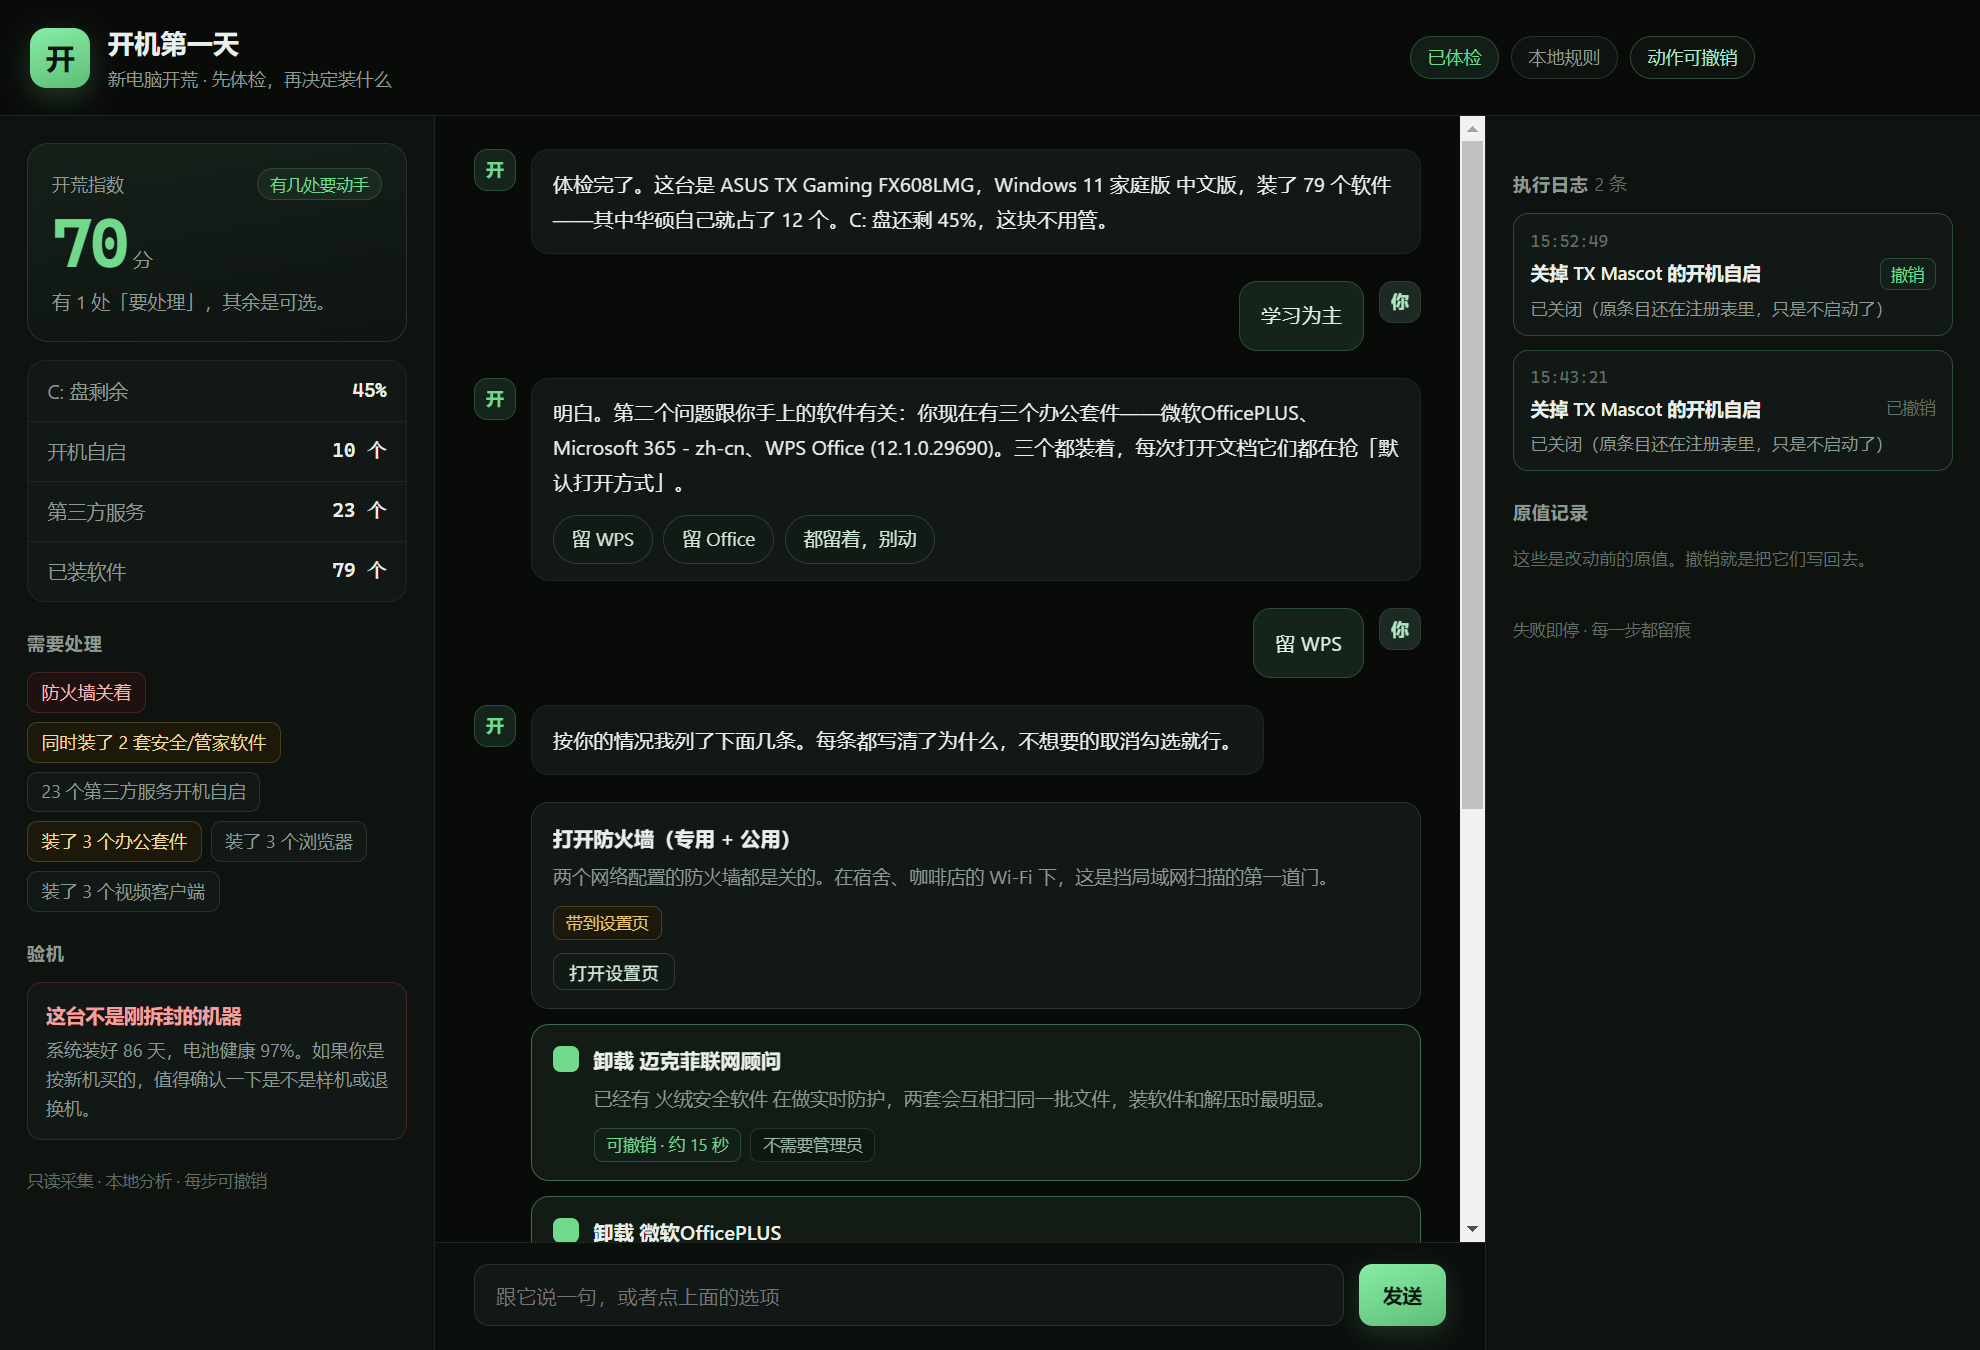
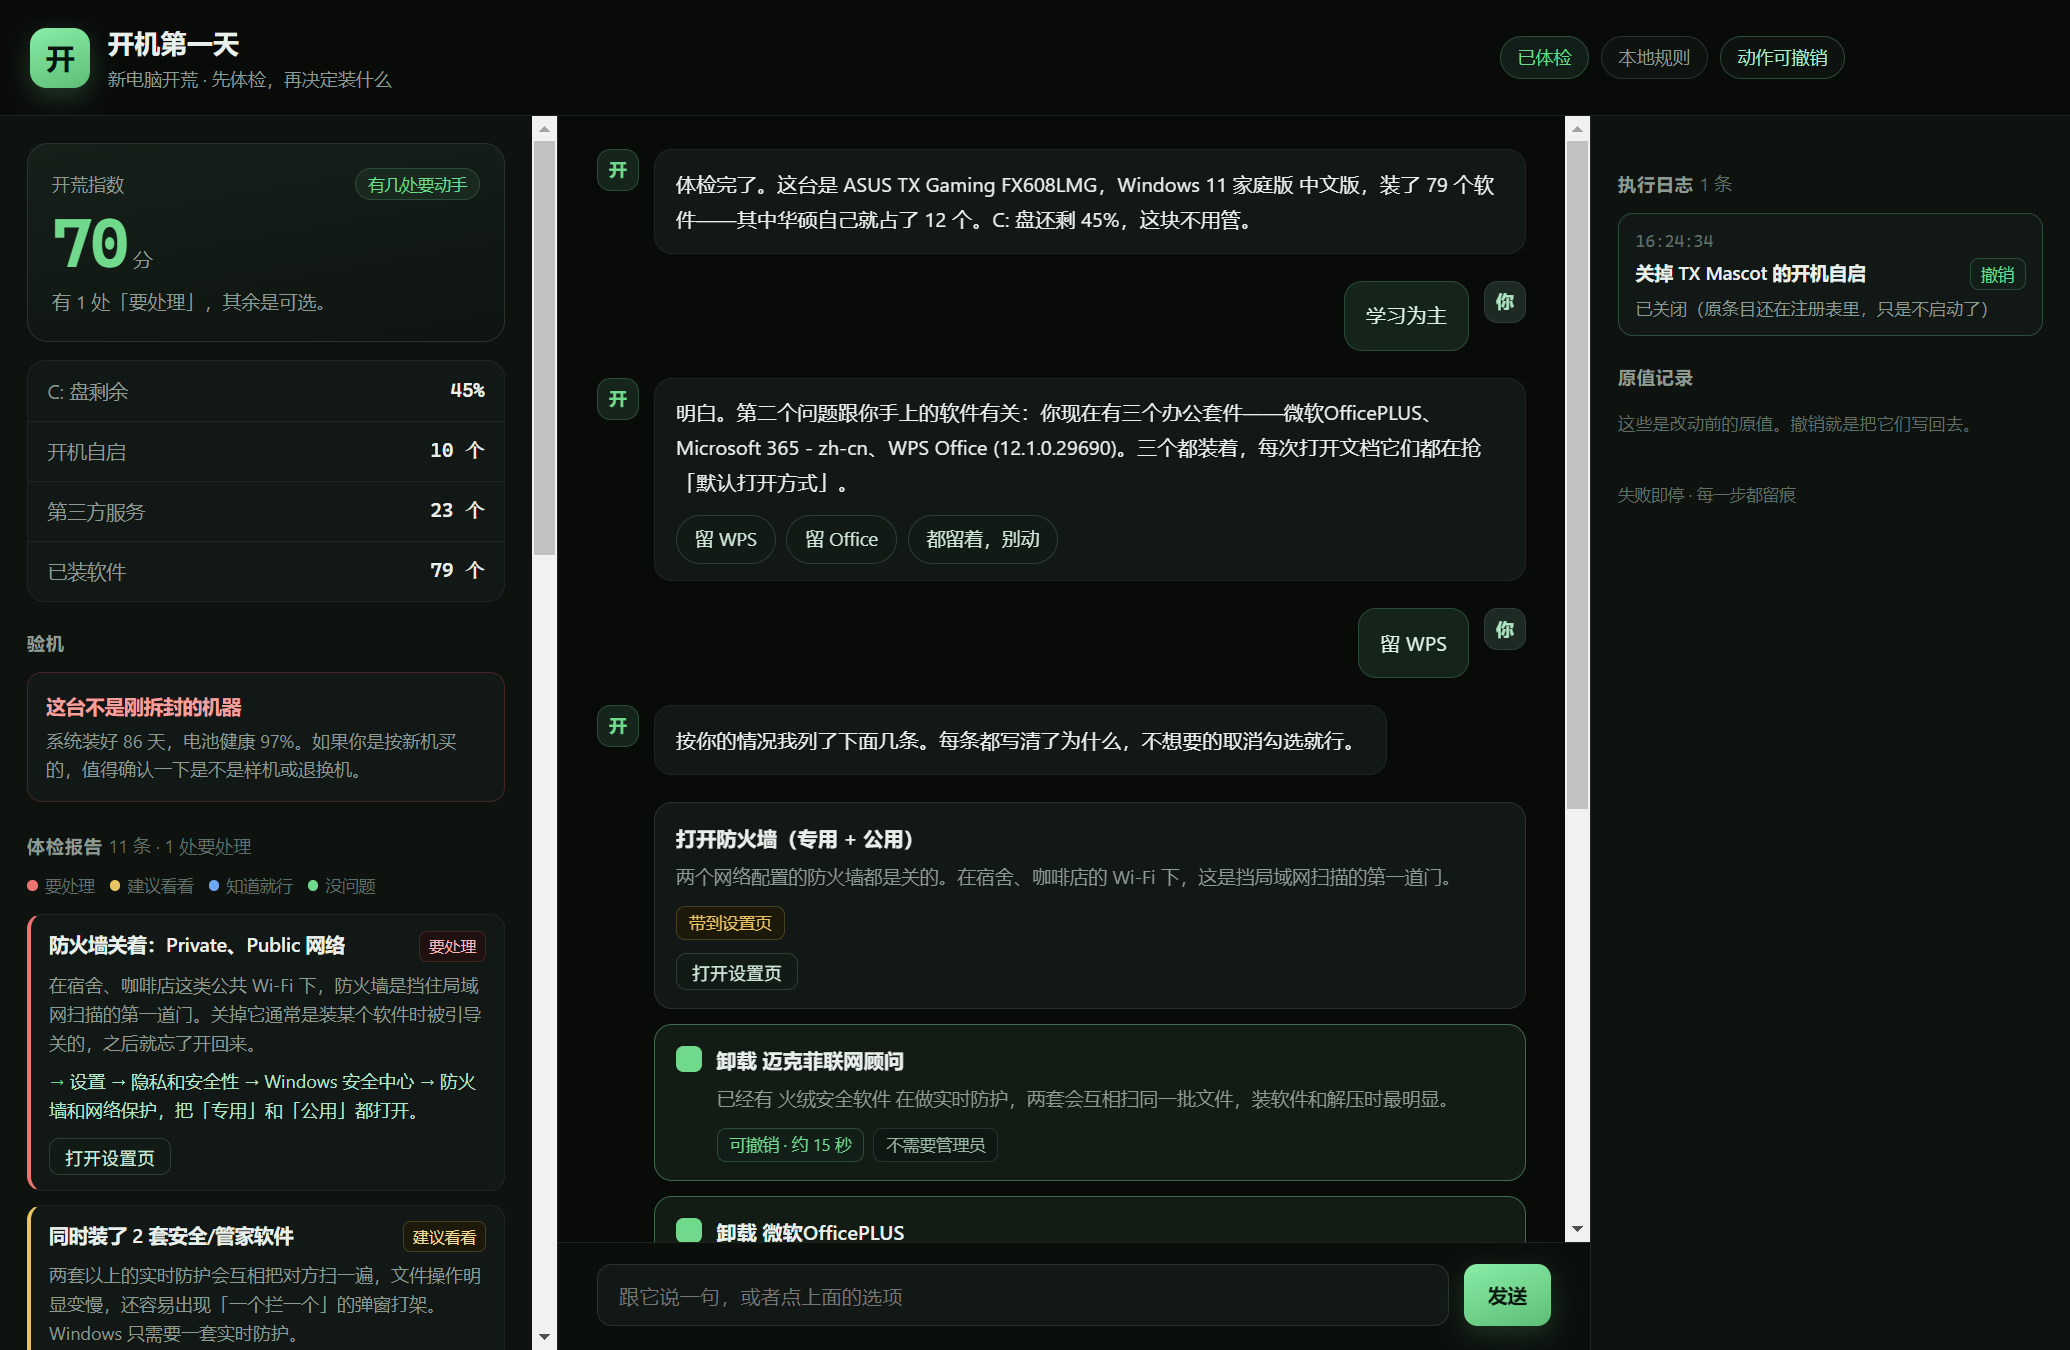
ui: left column shows the full per-item report, like the web version

diff --git a/docs/agent-demo.html b/docs/agent-demo.html
@@ -27,7 +27,7 @@ body{margin:0;background:var(--bg);color:var(--text);font:14px/1.65 "Segoe UI","
 .pill.on{color:var(--acc);border-color:#1f4d36;background:#0d1f17}
 .pill.acc{color:#9fe8c0;border-color:#1f4d36}
 
-.grid{flex:1;display:grid;grid-template-columns:290px minmax(420px,1fr) 330px;gap:0;min-height:0}
+.grid{flex:1;display:grid;grid-template-columns:372px minmax(400px,1fr) 320px;gap:0;min-height:0}
 .col{padding:18px;overflow:auto;min-height:0}
 .left,.right{background:var(--panel);}
 .left{border-right:1px solid var(--line)}
@@ -66,6 +66,32 @@ body{margin:0;background:var(--bg);color:var(--text);font:14px/1.65 "Segoe UI","
 .verify b{display:block;font-size:13px;margin-bottom:3px}
 .verify.ok b{color:var(--acc)} .verify.high b{color:#ff9d9d} .verify.warn b{color:var(--warn)}
 .verify p{margin:0;font-size:12px;color:var(--dim);line-height:1.6}
+
+/* 体检报告（左侧逐条列表） */
+.report-block{margin-top:20px}
+.legend{display:flex;flex-wrap:wrap;gap:10px;margin:-2px 0 10px;font-size:11px;color:var(--dim2)}
+.legend span{display:flex;align-items:center;gap:5px}
+.legend i{width:7px;height:7px;border-radius:50%;display:inline-block}
+.legend i.high{background:var(--high)} .legend i.warn{background:var(--warn)}
+.legend i.info{background:var(--blue)} .legend i.ok{background:var(--acc)}
+.report{display:flex;flex-direction:column;gap:9px}
+.fcard{border:1px solid var(--line);border-left:3px solid #2a3c33;border-radius:10px;background:var(--panel2);padding:10px 12px}
+.fcard.high{border-left-color:var(--high)} .fcard.warn{border-left-color:var(--warn)}
+.fcard.info{border-left-color:var(--blue)} .fcard.ok{border-left-color:#2f6b4a}
+.fhead{display:flex;align-items:baseline;gap:8px}
+.fhead h3{margin:0;flex:1;font-size:13px;font-weight:600;line-height:1.45}
+.flevel{font-size:10.5px;padding:1px 6px;border-radius:5px;border:1px solid #24322b;color:var(--dim);white-space:nowrap}
+.fcard.high .flevel{color:#ffb4b4;border-color:#4a2222;background:#20100f}
+.fcard.warn .flevel{color:#f7d894;border-color:#4a3d1c;background:#1d1808}
+.fcard.info .flevel{color:#a8d0f7;border-color:#24384a;background:#0d1620}
+.fcard.ok .flevel{color:#9fe8c0;border-color:#1f4d36;background:#0d1f17}
+.fdetail{margin:6px 0 0;font-size:12px;color:var(--dim);line-height:1.62}
+.ffix{margin:6px 0 0;font-size:12px;color:#a9e6c4;line-height:1.6}
+.ffix b{color:var(--acc);font-weight:600}
+.fitems{display:flex;flex-wrap:wrap;gap:5px;margin-top:8px}
+.fitem{font-size:10.5px;color:#8fb8a1;background:#0b1210;border:1px solid var(--line);border-radius:5px;padding:2px 6px;max-width:100%;overflow:hidden;text-overflow:ellipsis;white-space:nowrap}
+.fcard .linkbtn{margin-top:9px}
+.fcard .status{margin-top:6px}
 
 .foot{margin:18px 0 0;font-size:11px;color:var(--dim2)}
 
@@ -186,13 +212,16 @@ body.desktop .top .pill,body.desktop .top button{-webkit-app-region:no-drag}
     <section class="metrics" id="metrics"></section>
 
     <section class="block">
-      <h2>需要处理</h2>
-      <div class="chips" id="chips"><span class="muted">—</span></div>
-    </section>
-
-    <section class="block">
       <h2>验机</h2>
       <div class="verify" id="verify"><p class="muted">还没验。</p></div>
+    </section>
+
+    <section class="block report-block">
+      <h2>体检报告 <span class="hint" id="reportCount"></span></h2>
+      <div class="legend">
+        <span><i class="d high"></i>要处理</span><span><i class="d warn"></i>建议看看</span><span><i class="d info"></i>知道就行</span><span><i class="d ok"></i>没问题</span>
+      </div>
+      <div class="report" id="report"><p class="muted">先跑一遍体检，报告就出现在这里。</p></div>
     </section>
 
     <p class="foot">只读采集 · 本地分析 · 每步可撤销</p>
@@ -231,6 +260,9 @@ const sleep = (ms) => new Promise((r) => setTimeout(r, ms));
 let seq = 0;
 
 function detailOf(action) {
+  if (action === 'open_settings') {
+    return { ok: true, detail: '真机上会真的弹出系统设置页；这里是静态演示，只记一笔', ms: 300, revert: null };
+  }
   if (action === 'disable_startup') {
     return { ok: true, detail: '已关闭（原条目还在注册表里，只是不启动了）', ms: 820, revert: { kind: 'reg', name: 'TX Mascot', value: 'C:\\Program Files\\ASUS\\TXMascot.exe' } };
   }
@@ -347,16 +379,6 @@ function renderLeft() {
     m.append(r);
   }
 
-  const chips = $('#chips');
-  chips.innerHTML = '';
-  const key = a.findings.filter(f => ['high', 'warn', 'info'].includes(f.level)).slice(0, 6);
-  if (!key.length) chips.append(el('span', 'muted', '没什么要处理的。'));
-  for (const f of key) {
-    const c = el('span', 'chip ' + (f.level === 'high' ? 'high' : f.level === 'warn' ? 'warn' : ''));
-    c.textContent = f.title.replace(/：.*$/, '').slice(0, 18);
-    chips.append(c);
-  }
-
   const v = a.verify;
   const box = $('#verify');
   box.className = 'verify ' + (v.tone || '');
@@ -365,6 +387,60 @@ function renderLeft() {
 
   $('#pillScan').textContent = '已体检';
   $('#pillScan').classList.add('on');
+
+  renderReport();
+}
+
+const LEVEL_TXT = { high: '要处理', warn: '建议看看', info: '知道就行', ok: '没问题' };
+const LEVEL_ORDER = { high: 0, warn: 1, info: 2, ok: 3 };
+
+// 左侧体检报告：跟网页版一样的逐条卡片——为什么、怎么办、涉及哪些东西
+function renderReport() {
+  const a = S.analysis;
+  const box = $('#report');
+  if (!a || !box) return;
+  box.innerHTML = '';
+  $('#reportCount').textContent = a.counts.high
+    ? a.findings.length + ' 条 · ' + a.counts.high + ' 处要处理'
+    : a.findings.length + ' 条 · 没有硬伤';
+
+  const list = a.findings.slice().sort((x, y) => (LEVEL_ORDER[x.level] ?? 9) - (LEVEL_ORDER[y.level] ?? 9));
+  if (!list.length) { box.append(el('p', 'muted', '没有发现需要处理的问题。')); return; }
+
+  for (const f of list) {
+    const c = el('article', 'fcard ' + (f.level || 'info'));
+    const head = el('div', 'fhead');
+    head.append(el('h3', null, f.title), el('span', 'flevel', LEVEL_TXT[f.level] || '记录'));
+    c.append(head);
+    if (f.detail) c.append(el('p', 'fdetail', f.detail));
+    if (f.fix) {
+      const p = el('p', 'ffix');
+      p.append(el('b', null, '→ '), document.createTextNode(f.fix));
+      c.append(p);
+    }
+    if (f.items && f.items.length) {
+      const wrap = el('div', 'fitems');
+      for (const t of f.items.slice(0, 8)) wrap.append(el('span', 'fitem', t));
+      if (f.items.length > 8) wrap.append(el('span', 'fitem', '+' + (f.items.length - 8) + ' 个'));
+      c.append(wrap);
+    }
+    if (f.action === 'open_settings') {
+      const label = f.cta || '打开设置页';
+      const btn = el('button', 'linkbtn', label);
+      btn.onclick = async () => {
+        btn.disabled = true; btn.textContent = '正在打开…';
+        try {
+          await api('/api/execute', { card: { action: 'open_settings', title: f.title, target: f.args || {} } });
+          btn.textContent = '✓ 已打开';
+          S.journal = (await api('/api/journal')).entries;
+          renderLog();
+        } catch (e) { btn.textContent = '打开失败'; }
+        setTimeout(() => { btn.disabled = false; btn.textContent = label; }, 3500);
+      };
+      c.append(btn);
+    }
+    box.append(c);
+  }
 }
 
 function renderLog() {

diff --git a/app/ui/app.js b/app/ui/app.js
@@ -35,16 +35,6 @@ function renderLeft() {
     m.append(r);
   }
 
-  const chips = $('#chips');
-  chips.innerHTML = '';
-  const key = a.findings.filter(f => ['high', 'warn', 'info'].includes(f.level)).slice(0, 6);
-  if (!key.length) chips.append(el('span', 'muted', '没什么要处理的。'));
-  for (const f of key) {
-    const c = el('span', 'chip ' + (f.level === 'high' ? 'high' : f.level === 'warn' ? 'warn' : ''));
-    c.textContent = f.title.replace(/：.*$/, '').slice(0, 18);
-    chips.append(c);
-  }
-
   const v = a.verify;
   const box = $('#verify');
   box.className = 'verify ' + (v.tone || '');
@@ -53,6 +43,60 @@ function renderLeft() {
 
   $('#pillScan').textContent = '已体检';
   $('#pillScan').classList.add('on');
+
+  renderReport();
+}
+
+const LEVEL_TXT = { high: '要处理', warn: '建议看看', info: '知道就行', ok: '没问题' };
+const LEVEL_ORDER = { high: 0, warn: 1, info: 2, ok: 3 };
+
+// 左侧体检报告：跟网页版一样的逐条卡片——为什么、怎么办、涉及哪些东西
+function renderReport() {
+  const a = S.analysis;
+  const box = $('#report');
+  if (!a || !box) return;
+  box.innerHTML = '';
+  $('#reportCount').textContent = a.counts.high
+    ? a.findings.length + ' 条 · ' + a.counts.high + ' 处要处理'
+    : a.findings.length + ' 条 · 没有硬伤';
+
+  const list = a.findings.slice().sort((x, y) => (LEVEL_ORDER[x.level] ?? 9) - (LEVEL_ORDER[y.level] ?? 9));
+  if (!list.length) { box.append(el('p', 'muted', '没有发现需要处理的问题。')); return; }
+
+  for (const f of list) {
+    const c = el('article', 'fcard ' + (f.level || 'info'));
+    const head = el('div', 'fhead');
+    head.append(el('h3', null, f.title), el('span', 'flevel', LEVEL_TXT[f.level] || '记录'));
+    c.append(head);
+    if (f.detail) c.append(el('p', 'fdetail', f.detail));
+    if (f.fix) {
+      const p = el('p', 'ffix');
+      p.append(el('b', null, '→ '), document.createTextNode(f.fix));
+      c.append(p);
+    }
+    if (f.items && f.items.length) {
+      const wrap = el('div', 'fitems');
+      for (const t of f.items.slice(0, 8)) wrap.append(el('span', 'fitem', t));
+      if (f.items.length > 8) wrap.append(el('span', 'fitem', '+' + (f.items.length - 8) + ' 个'));
+      c.append(wrap);
+    }
+    if (f.action === 'open_settings') {
+      const label = f.cta || '打开设置页';
+      const btn = el('button', 'linkbtn', label);
+      btn.onclick = async () => {
+        btn.disabled = true; btn.textContent = '正在打开…';
+        try {
+          await api('/api/execute', { card: { action: 'open_settings', title: f.title, target: f.args || {} } });
+          btn.textContent = '✓ 已打开';
+          S.journal = (await api('/api/journal')).entries;
+          renderLog();
+        } catch (e) { btn.textContent = '打开失败'; }
+        setTimeout(() => { btn.disabled = false; btn.textContent = label; }, 3500);
+      };
+      c.append(btn);
+    }
+    box.append(c);
+  }
 }
 
 function renderLog() {

diff --git a/app/ui/app.css b/app/ui/app.css
@@ -20,7 +20,7 @@ body{margin:0;background:var(--bg);color:var(--text);font:14px/1.65 "Segoe UI","
 .pill.on{color:var(--acc);border-color:#1f4d36;background:#0d1f17}
 .pill.acc{color:#9fe8c0;border-color:#1f4d36}
 
-.grid{flex:1;display:grid;grid-template-columns:290px minmax(420px,1fr) 330px;gap:0;min-height:0}
+.grid{flex:1;display:grid;grid-template-columns:372px minmax(400px,1fr) 320px;gap:0;min-height:0}
 .col{padding:18px;overflow:auto;min-height:0}
 .left,.right{background:var(--panel);}
 .left{border-right:1px solid var(--line)}
@@ -59,6 +59,32 @@ body{margin:0;background:var(--bg);color:var(--text);font:14px/1.65 "Segoe UI","
 .verify b{display:block;font-size:13px;margin-bottom:3px}
 .verify.ok b{color:var(--acc)} .verify.high b{color:#ff9d9d} .verify.warn b{color:var(--warn)}
 .verify p{margin:0;font-size:12px;color:var(--dim);line-height:1.6}
+
+/* 体检报告（左侧逐条列表） */
+.report-block{margin-top:20px}
+.legend{display:flex;flex-wrap:wrap;gap:10px;margin:-2px 0 10px;font-size:11px;color:var(--dim2)}
+.legend span{display:flex;align-items:center;gap:5px}
+.legend i{width:7px;height:7px;border-radius:50%;display:inline-block}
+.legend i.high{background:var(--high)} .legend i.warn{background:var(--warn)}
+.legend i.info{background:var(--blue)} .legend i.ok{background:var(--acc)}
+.report{display:flex;flex-direction:column;gap:9px}
+.fcard{border:1px solid var(--line);border-left:3px solid #2a3c33;border-radius:10px;background:var(--panel2);padding:10px 12px}
+.fcard.high{border-left-color:var(--high)} .fcard.warn{border-left-color:var(--warn)}
+.fcard.info{border-left-color:var(--blue)} .fcard.ok{border-left-color:#2f6b4a}
+.fhead{display:flex;align-items:baseline;gap:8px}
+.fhead h3{margin:0;flex:1;font-size:13px;font-weight:600;line-height:1.45}
+.flevel{font-size:10.5px;padding:1px 6px;border-radius:5px;border:1px solid #24322b;color:var(--dim);white-space:nowrap}
+.fcard.high .flevel{color:#ffb4b4;border-color:#4a2222;background:#20100f}
+.fcard.warn .flevel{color:#f7d894;border-color:#4a3d1c;background:#1d1808}
+.fcard.info .flevel{color:#a8d0f7;border-color:#24384a;background:#0d1620}
+.fcard.ok .flevel{color:#9fe8c0;border-color:#1f4d36;background:#0d1f17}
+.fdetail{margin:6px 0 0;font-size:12px;color:var(--dim);line-height:1.62}
+.ffix{margin:6px 0 0;font-size:12px;color:#a9e6c4;line-height:1.6}
+.ffix b{color:var(--acc);font-weight:600}
+.fitems{display:flex;flex-wrap:wrap;gap:5px;margin-top:8px}
+.fitem{font-size:10.5px;color:#8fb8a1;background:#0b1210;border:1px solid var(--line);border-radius:5px;padding:2px 6px;max-width:100%;overflow:hidden;text-overflow:ellipsis;white-space:nowrap}
+.fcard .linkbtn{margin-top:9px}
+.fcard .status{margin-top:6px}
 
 .foot{margin:18px 0 0;font-size:11px;color:var(--dim2)}
 

diff --git a/app/ui/index.html b/app/ui/index.html
@@ -34,13 +34,16 @@
     <section class="metrics" id="metrics"></section>
 
     <section class="block">
-      <h2>需要处理</h2>
-      <div class="chips" id="chips"><span class="muted">—</span></div>
-    </section>
-
-    <section class="block">
       <h2>验机</h2>
       <div class="verify" id="verify"><p class="muted">还没验。</p></div>
+    </section>
+
+    <section class="block report-block">
+      <h2>体检报告 <span class="hint" id="reportCount"></span></h2>
+      <div class="legend">
+        <span><i class="d high"></i>要处理</span><span><i class="d warn"></i>建议看看</span><span><i class="d info"></i>知道就行</span><span><i class="d ok"></i>没问题</span>
+      </div>
+      <div class="report" id="report"><p class="muted">先跑一遍体检，报告就出现在这里。</p></div>
     </section>
 
     <p class="foot">只读采集 · 本地分析 · 每步可撤销</p>

diff --git a/app/ui/demo-shim.js b/app/ui/demo-shim.js
@@ -6,6 +6,9 @@ const sleep = (ms) => new Promise((r) => setTimeout(r, ms));
 let seq = 0;
 
 function detailOf(action) {
+  if (action === 'open_settings') {
+    return { ok: true, detail: '真机上会真的弹出系统设置页；这里是静态演示，只记一笔', ms: 300, revert: null };
+  }
   if (action === 'disable_startup') {
     return { ok: true, detail: '已关闭（原条目还在注册表里，只是不启动了）', ms: 820, revert: { kind: 'reg', name: 'TX Mascot', value: 'C:\\Program Files\\ASUS\\TXMascot.exe' } };
   }
